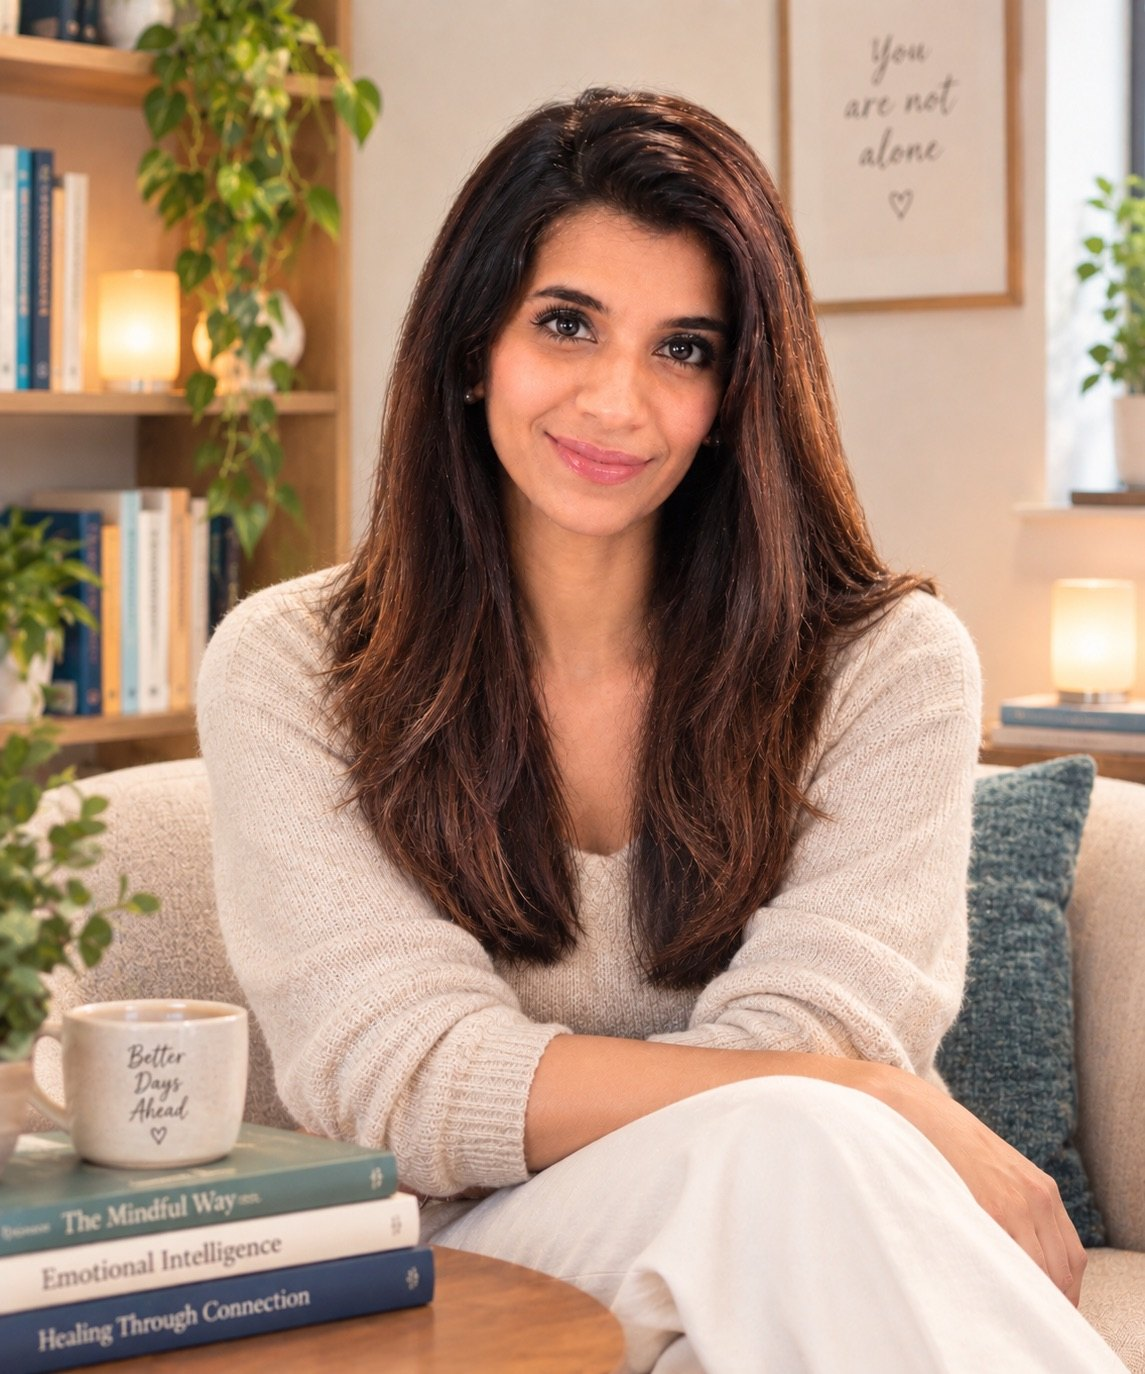
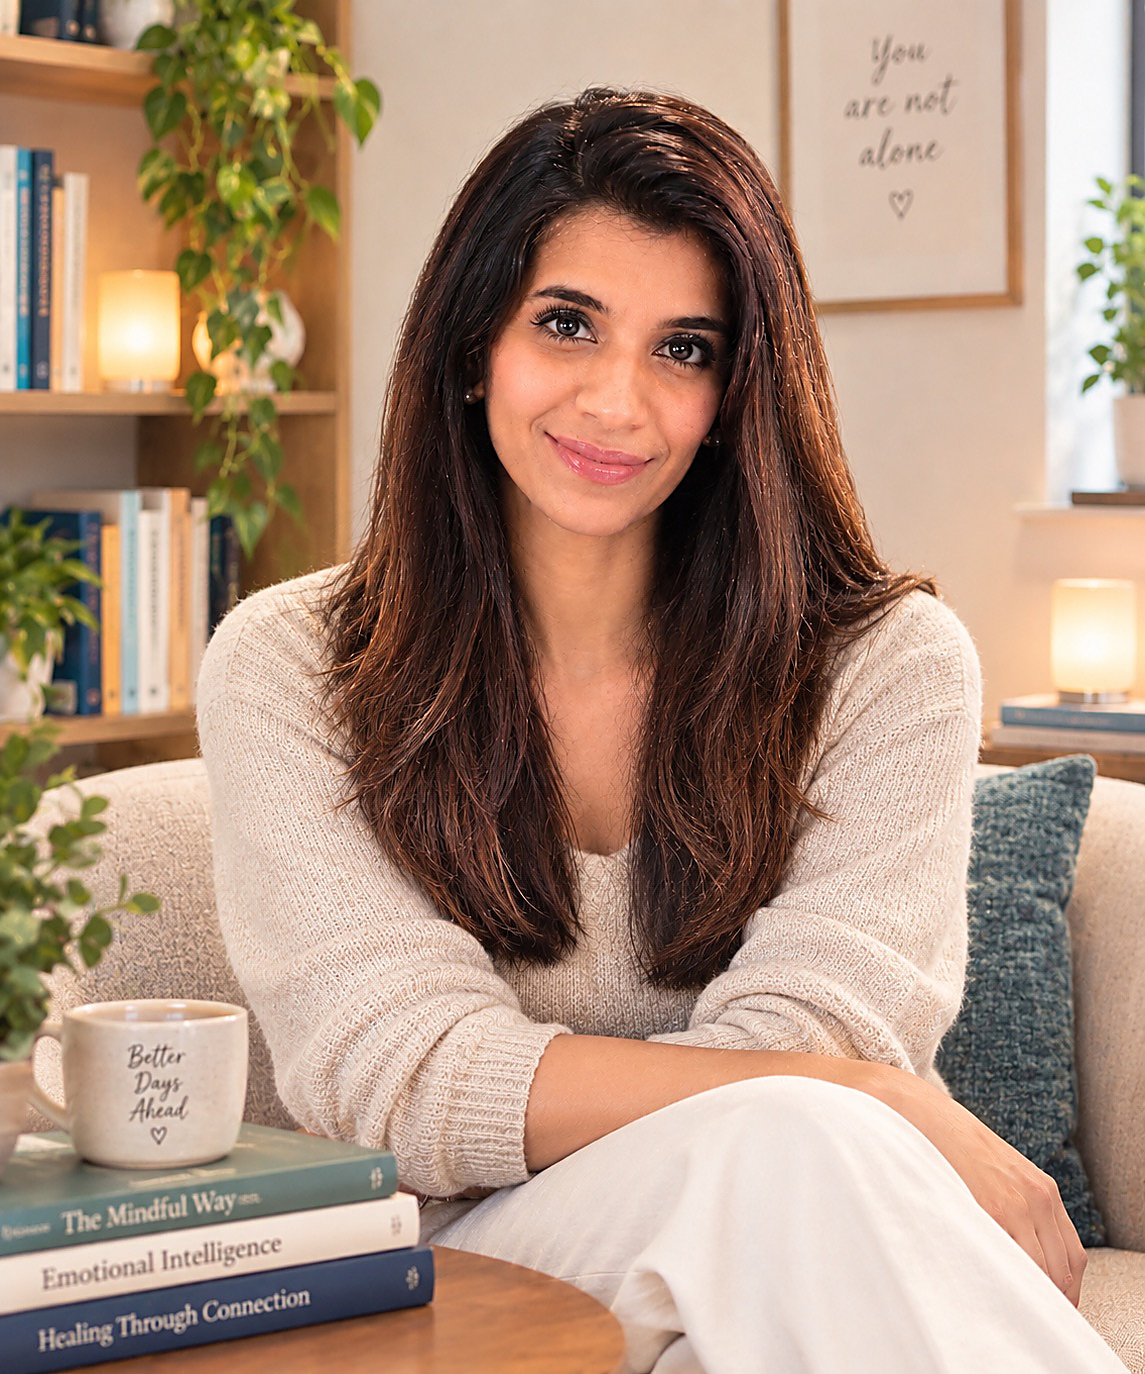
Sharpen the hero portrait and serve it at quality 90
The source photo is soft and the default quality 75 softened it further.
Apply a gentle two-pass unsharp mask and allow quality 90 for the hero.

diff --git a/app/page.js b/app/page.js
@@ -44,6 +44,7 @@ export default function Home() {
                 width={1145}
                 height={1374}
                 sizes="(min-width: 900px) 390px, 85vw"
+                quality={90}
                 priority
               />
             </div>
